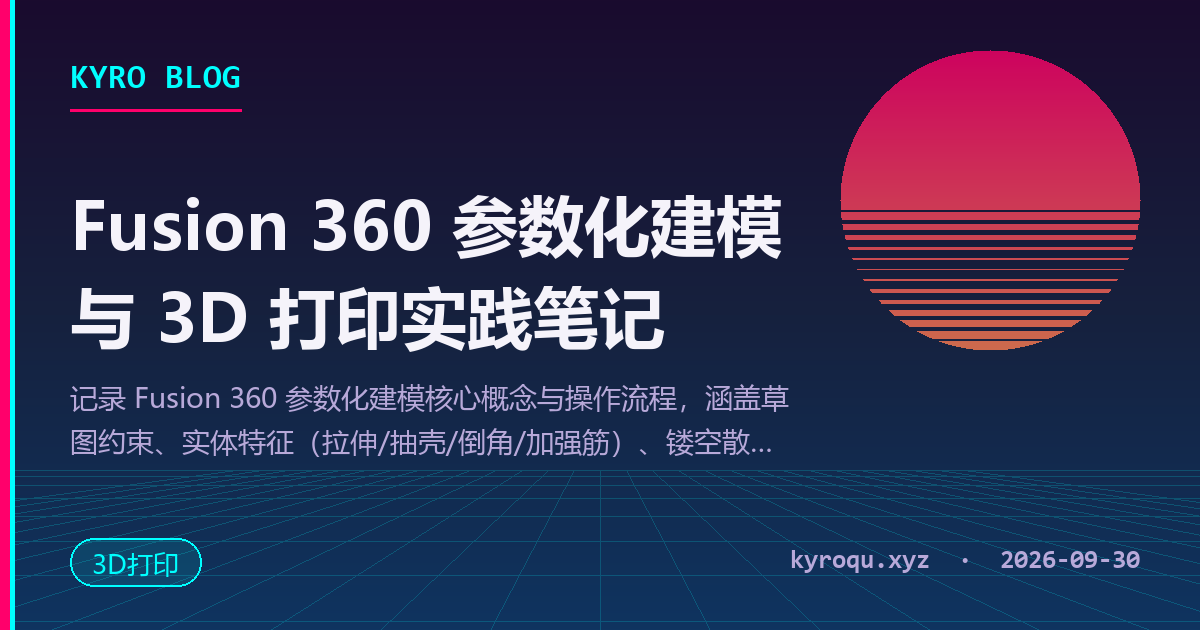
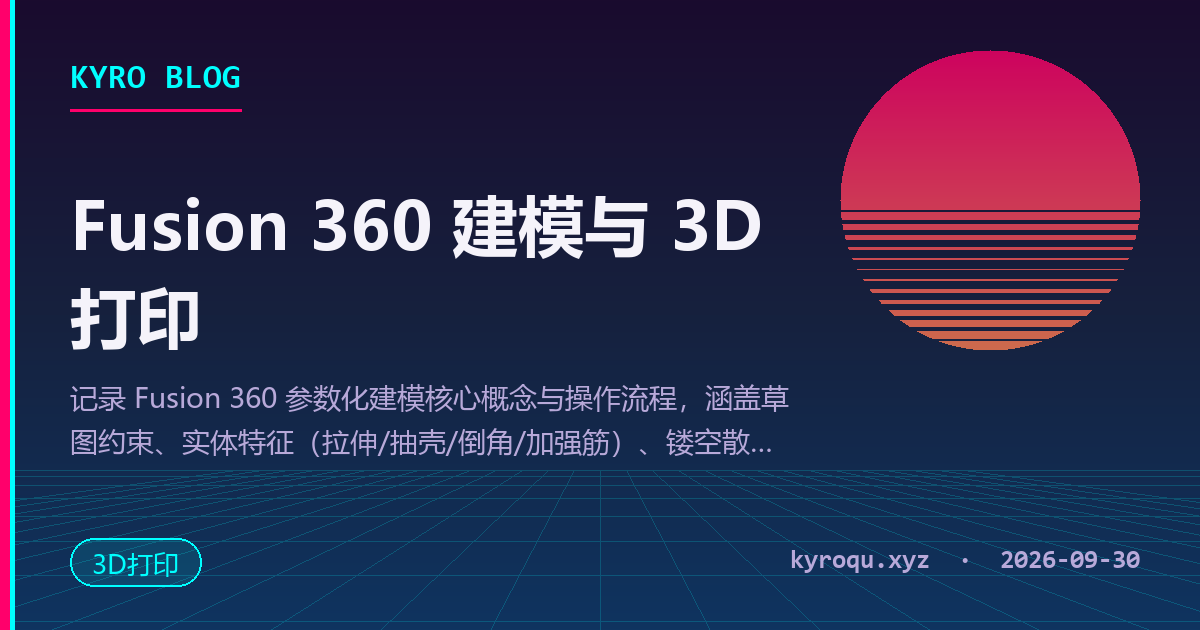
Update title to Fusion 360 建模与 3D 打印

Changed region(s): [[0.0617, 0.4524, 0.555, 0.573], [0.37, 0.3016, 0.6475, 0.4222]]

diff --git a/content/posts/fusion-360-guide.md b/content/posts/fusion-360-guide.md
@@ -1,7 +1,7 @@
 ---
-title: "Fusion 360 参数化建模与 3D 打印实践笔记"
+title: "Fusion 360 建模与 3D 打印"
 subtitle: "从草图特征、实体建模到材质渲染与 Bambu Studio 切片实操指南"
-date: 2026-09-30T00:17:18+08:00
+date: 2026-09-30T08:48:14+08:00
 draft: false
 tags: ["3D打印"]
 featured: false
